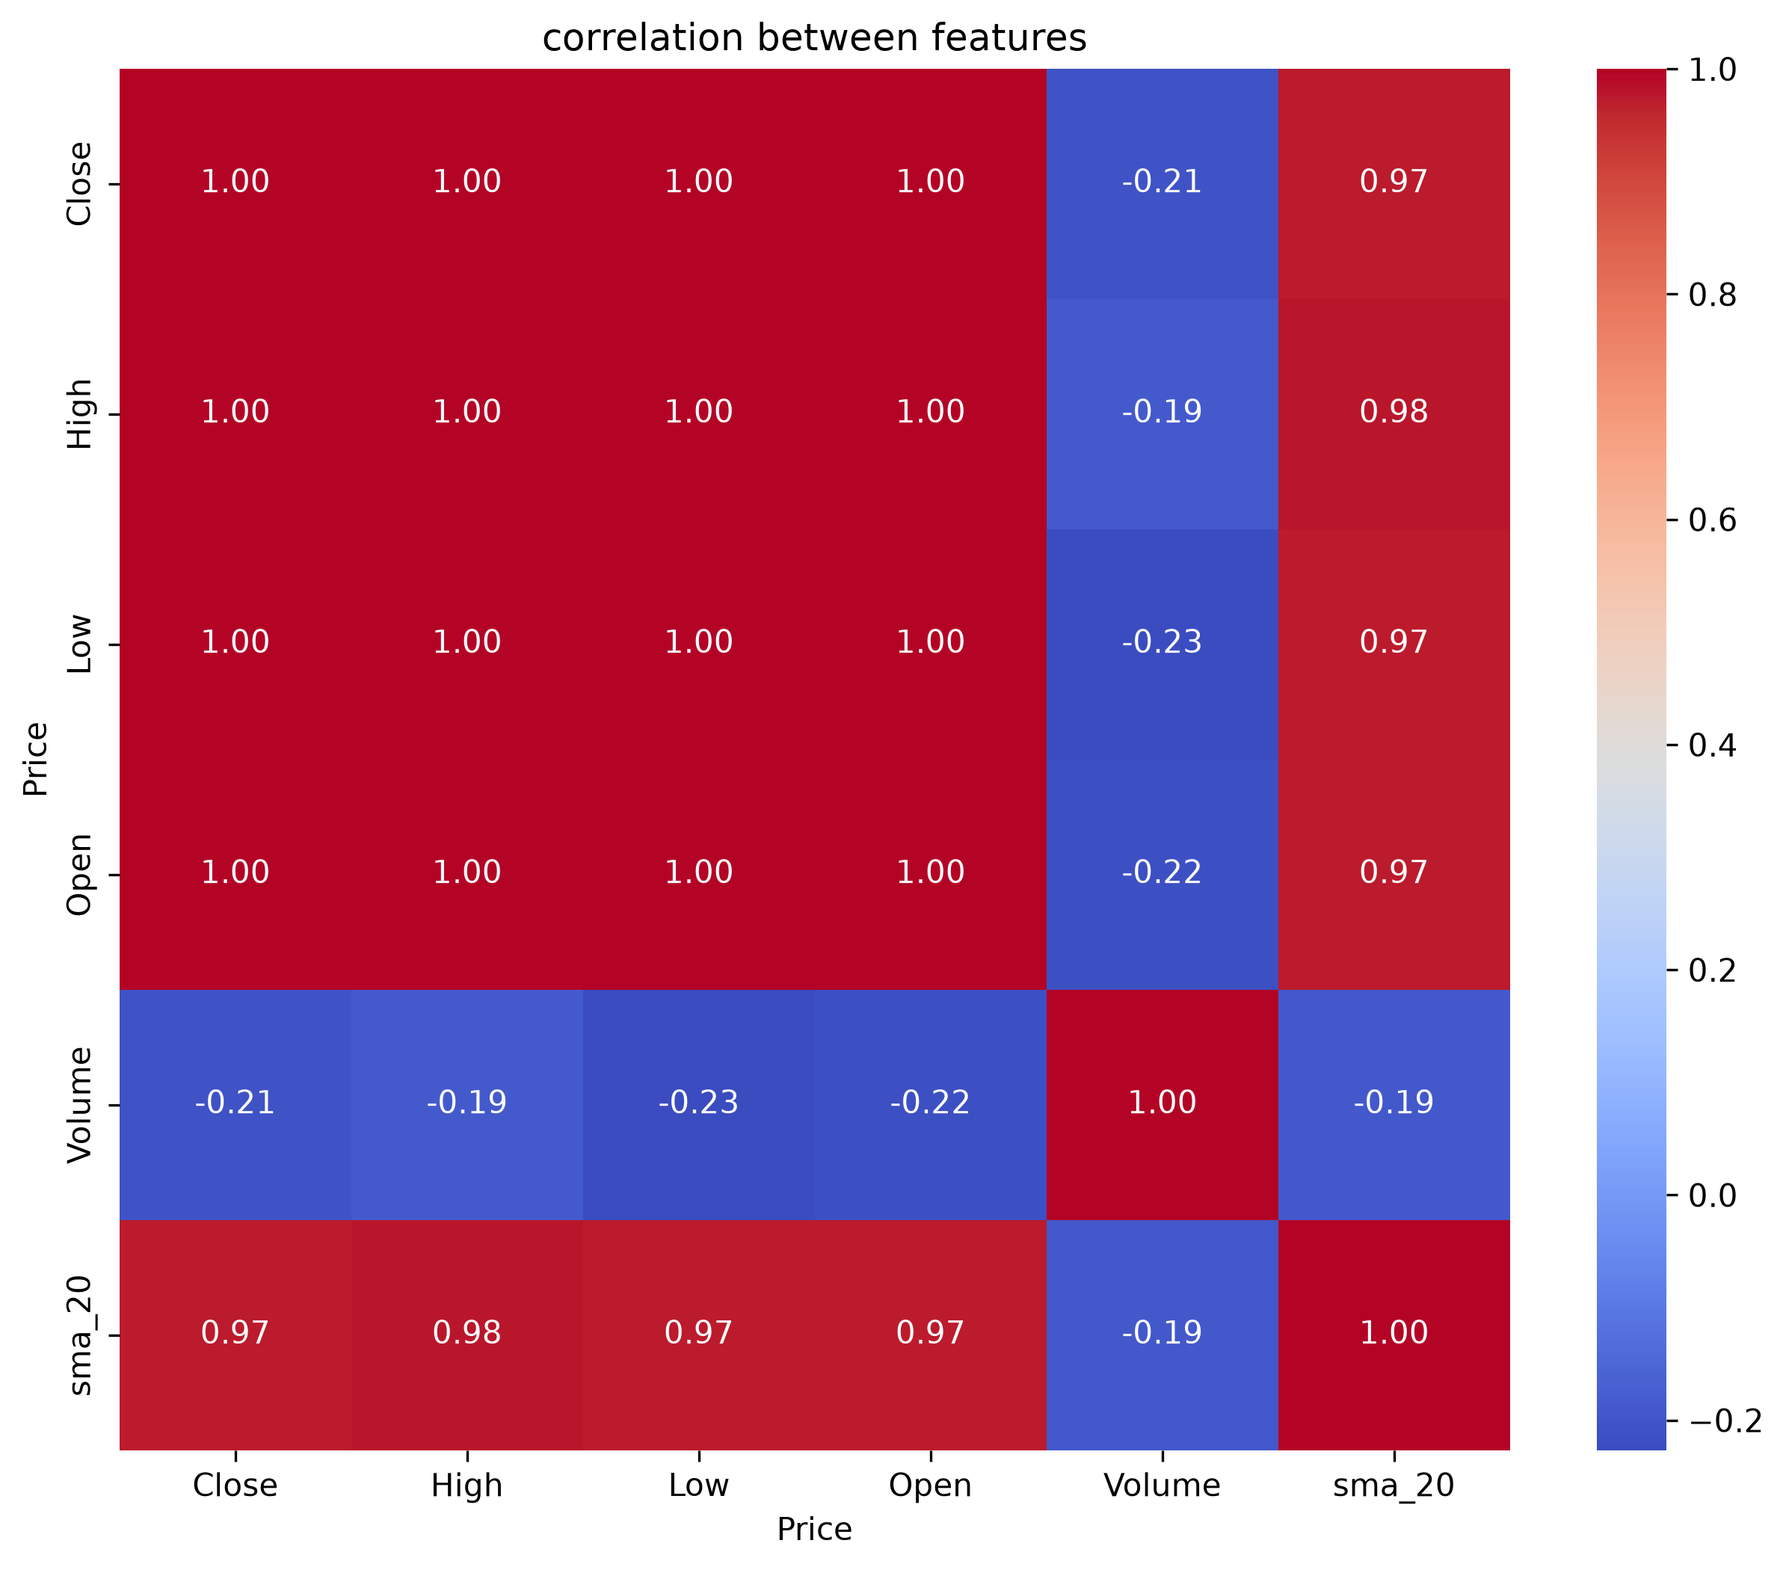
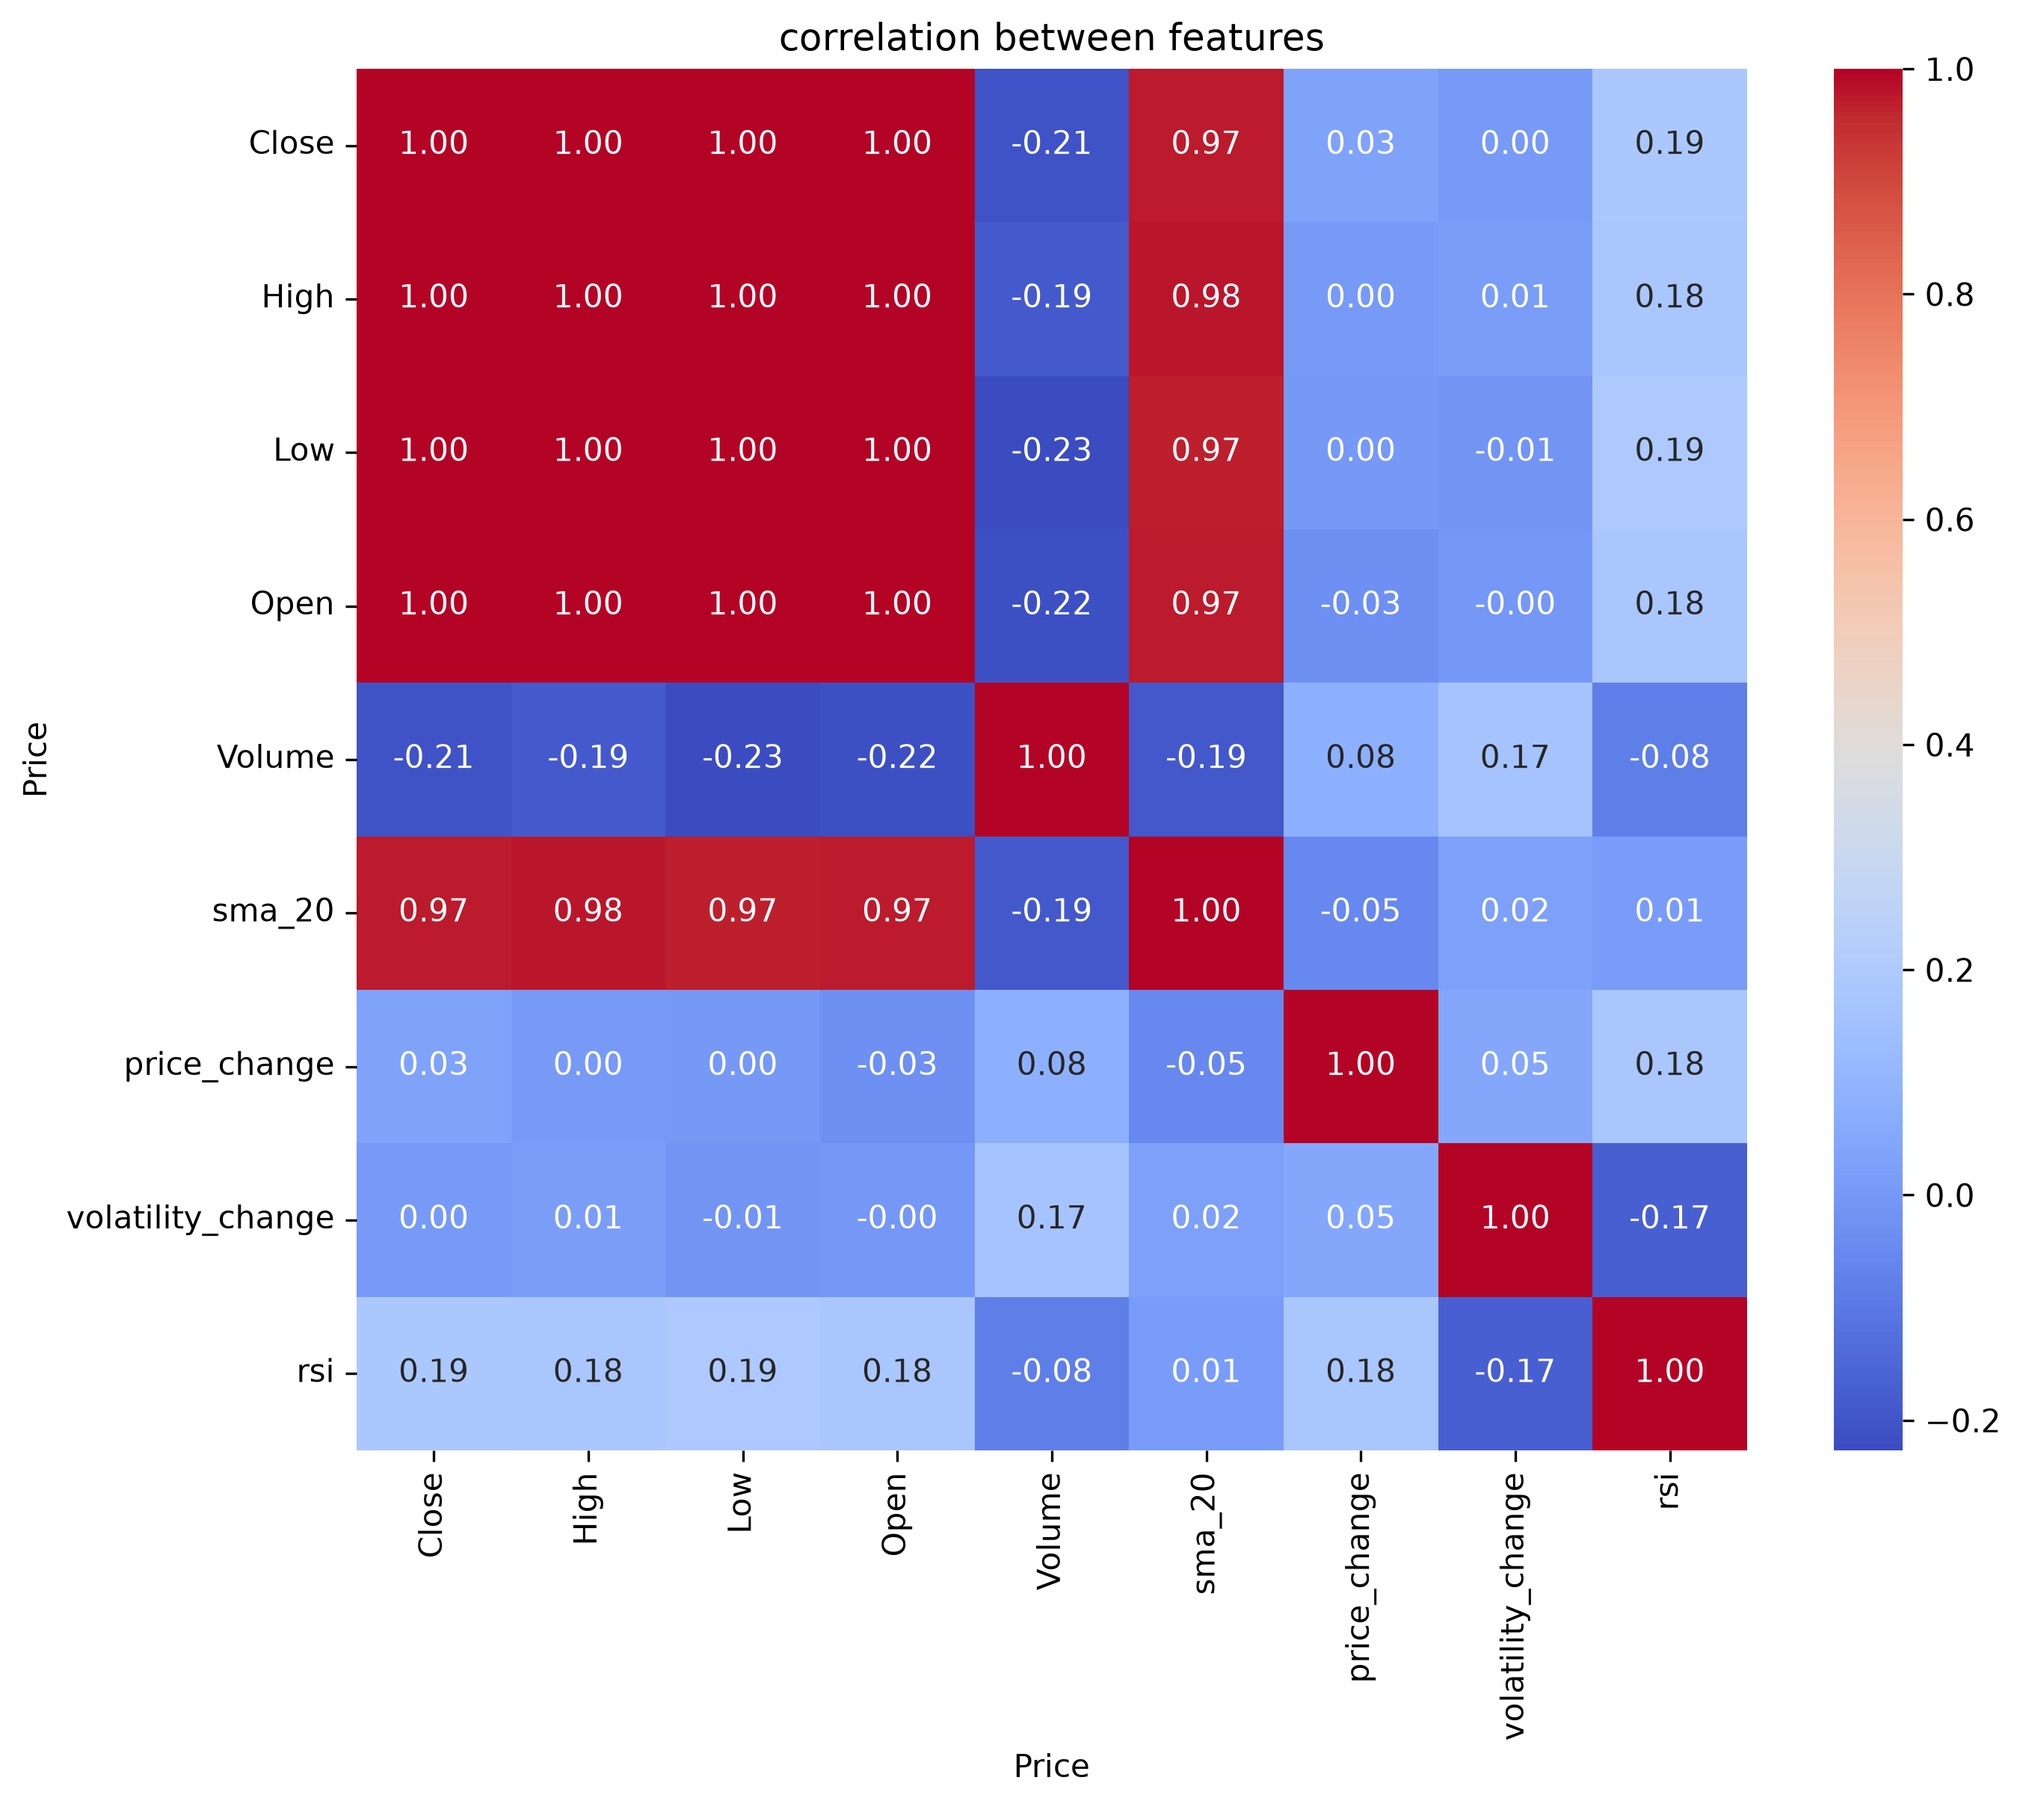
added rsi

diff --git a/main.py b/main.py
@@ -46,6 +46,17 @@ if isinstance(data.columns,pd.MultiIndex):
 
 data['sma_20'] = data['Close'].rolling(20).mean()
 # print(data[['Close','sma_20']].head(25))
+data['price_change'] = data['Close'].pct_change()
+data['volatility_change'] = data['price_change'].rolling(20).std()
+
+diff = data['Close'].diff()
+loss = -diff.clip(upper=0)
+gain = diff.clip(lower=0)
+avg_loss = loss.rolling(20).mean()
+avg_gain = gain.rolling(20).mean()
+relative_strength = avg_gain / avg_loss
+# relative strenth index
+data['rsi'] = 100-(100/(1+relative_strength)) 
 data =data.dropna()
 
 plt.figure(figsize= (12,9))
@@ -80,7 +91,7 @@ plt.savefig("images/heatmap.png", dpi=300, bbox_inches="tight")
 plt.show()
 print(num_data.corr())
 
-features = data[['Open', 'High', 'Low', 'Close', 'Volume', 'sma_20']]
+features = data[['Open', 'High', 'Low', 'Close', 'Volume', 'sma_20','volatility_change','price_change','rsi']]
 target = data[['Close']]
 train_data = int(np.ceil(len(data)*0.70))
 val_data = int(np.ceil(len(data)*0.80))
@@ -92,6 +103,14 @@ test_features = features.iloc[val_data:]
 train_target = target.iloc[:train_data]
 val_target = target.iloc[train_data:val_data]
 test_target = target.iloc[val_data:]
+
+
+
+print("Test starts:", test_features.index[0])
+print("Test ends:", test_features.index[-1])
+print("Test samples:", len(test_features))
+
+
 
 TF_scaler = MinMaxScaler()
 TT_scaler = MinMaxScaler() 
@@ -184,23 +203,23 @@ rmse = root_mean_squared_error(data_for_bl,test_values)
 print(f"rmse for Naive Baseline is : {rmse:.2f}")
 print("======================================")
 
-# graph
-plt.figure(figsize=(12,8))
-plt.plot(train_features.index,train_features["Close"],label= "trained price", color= "red")
-plt.plot(test_features.index,test_features["Close"],label= "desired actual price", color = "green")
-plt.plot(val_features.index,val_features["Close"],label= "given val price", color = "purple")
-plt.plot(test_features.index,future_price,label= "predicted price", color = "blue")
-plt.title("price pridiction usind lstm")
-plt.xlabel("date")
-plt.ylabel("price")
-plt.legend()
-plt.savefig("images/pridicted_data.png", dpi=300, bbox_inches="tight")
-# plt.show()
+# # graph
+# plt.figure(figsize=(12,8))
+# plt.plot(train_features.index,train_features["Close"],label= "trained price", color= "red")
+# plt.plot(test_features.index,test_features["Close"],label= "desired actual price", color = "green")
+# plt.plot(val_features.index,val_features["Close"],label= "given val price", color = "purple")
+# plt.plot(test_features.index,future_price,label= "predicted price", color = "blue")
+# plt.title("price pridiction usind lstm")
+# plt.xlabel("date")
+# plt.ylabel("price")
+# plt.legend()
+# plt.savefig("images/pridicted_data.png", dpi=300, bbox_inches="tight")
+# # plt.show()
 
-plt.figure(figsize=(12,8))
-plt.plot(test_features.index,test_features["Close"],label= "desired actual price", color = "green")
-plt.plot(test_features.index,future_price,label= "predicted price", color = "blue")
-plt.plot(test_features.index,data_for_bl,label= "naive baseline", color = "red")
-plt.title("comparison")
-plt.legend()
-plt.show()
+# plt.figure(figsize=(12,8))
+# plt.plot(test_features.index,test_features["Close"],label= "desired actual price", color = "green")
+# plt.plot(test_features.index,future_price,label= "predicted price", color = "blue")
+# plt.plot(test_features.index,data_for_bl,label= "naive baseline", color = "red")
+# plt.title("comparison")
+# plt.legend()
+# plt.show()
